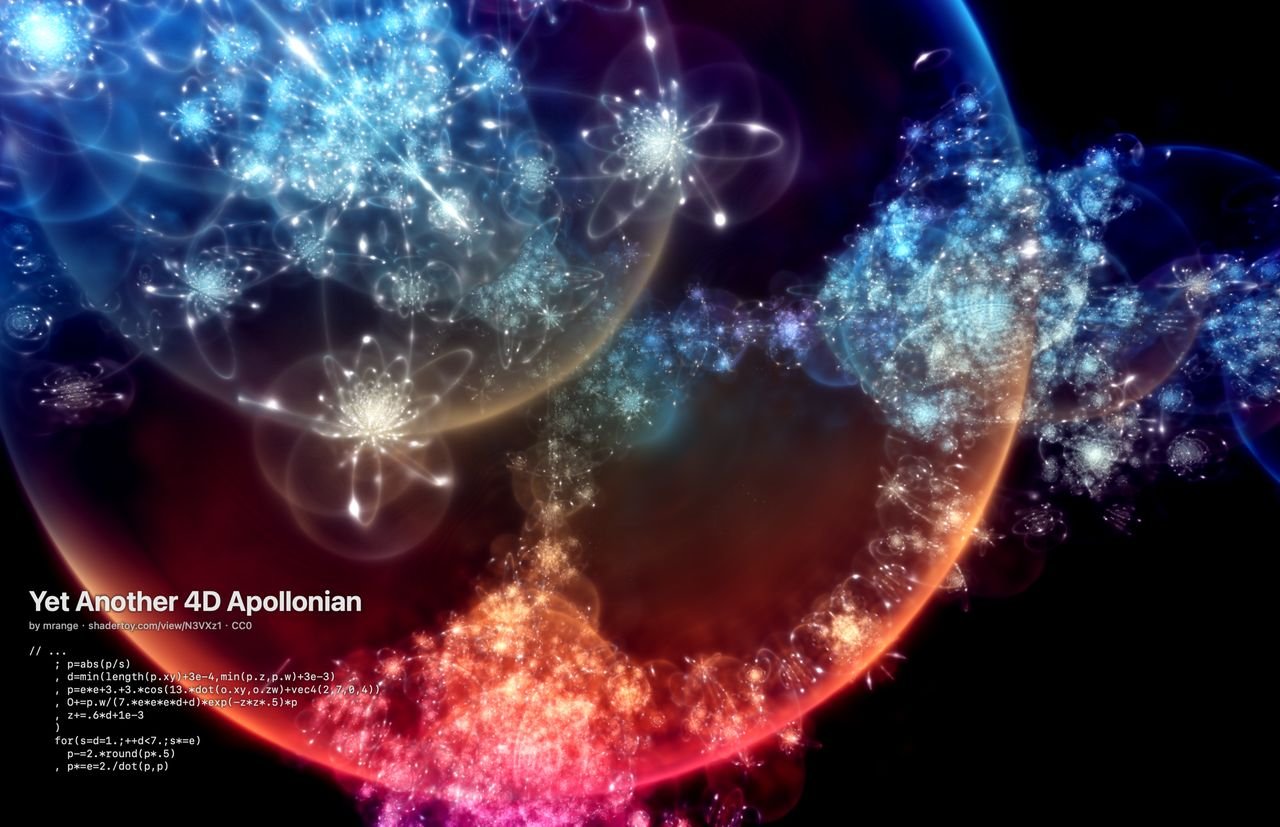
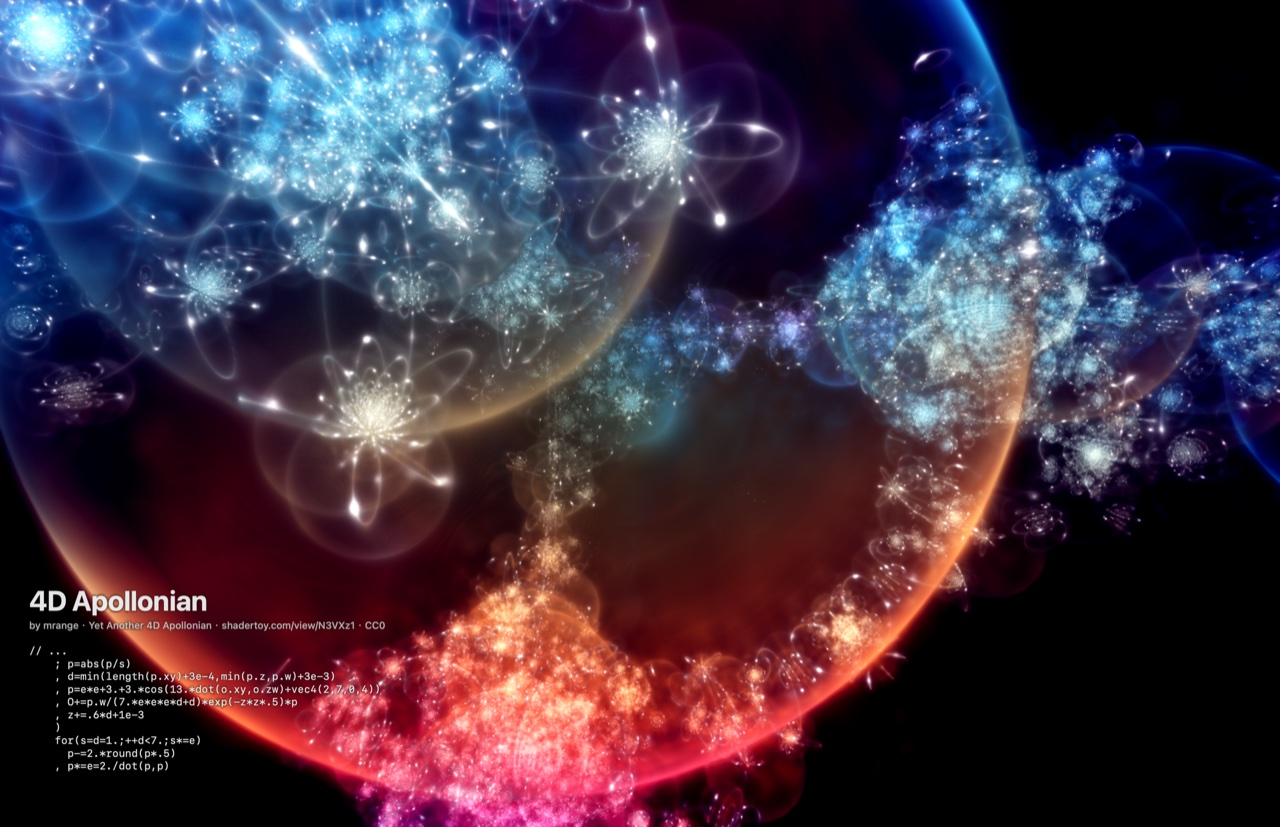
Shader Mix 1.2.2: Balatro Background, 4D Apollonian
Titles read like article titles: "Balatro Background Shaders" becomes
"Balatro Background", and "Yet Another 4D Apollonian" becomes "4D Apollonian"
with the original title in the author line. README headings and screenshots follow.

Changed region(s): [[0.0312, 0.6953, 0.2812, 0.9371]]

diff --git a/shader-mix/saver/tools/make_sources.py b/shader-mix/saver/tools/make_sources.py
@@ -16,8 +16,8 @@ OUT = os.path.join(os.path.dirname(__file__), '..', 'shaders')
 
 SHADERS = [
     # key, shadertoy id, title, author, license, enabled by default, textures. Titles are the original
-    # names without code-size suffixes, in title case; SamuelYAN's numbered titles get an English name
-    # and the original title goes in the author line.
+    # names without code-size suffixes, in title case; numbered or filler titles (SamuelYAN's,
+    # "Yet Another") get a plain name and the original title goes in the author line.
     ('flowingwires', 'DsBczR', 'Flowing Wires', 'kishimisu', 'CC BY-NC-SA 4.0', True, {}),
     ('starship', 'l3cfW4', 'Starship', 'Xor', 'CC BY-NC-SA 3.0', True, {'0': 'starship_iChannel0.jpg'}),
     ('fractalpyramid', 'tsXBzS', 'Fractal Pyramid', 'bradjamesgrant', 'CC BY-NC-SA 3.0', True, {}),
@@ -25,12 +25,12 @@ SHADERS = [
     ('singularity', '3csSWB', 'Singularity', 'Xor', 'CC BY-NC-SA 3.0', True, {}),
     ('ether', 'MsjSW3', 'Ether', 'nimitz', 'CC BY-NC-SA 3.0', True, {}),
     ('colorfulinfinity', 'WtjyzR', 'Path to the Colorful Infinity', 'benoitM', 'CC BY-NC-SA 3.0', True, {}),
-    ('balatroswirl', None, 'Balatro Background Shaders', 'xxidbr9 · original LocalThunk', 'personal use only', True, {}),
+    ('balatroswirl', None, 'Balatro Background', 'xxidbr9 · original LocalThunk', 'personal use only', True, {}),
     ('spiraliris', None, 'Liquid Iridescence', 'SamuelYAN · Shader_240422-4', 'CC BY-NC-SA', True, {}),
     ('membrane', None, 'Cell Membrane Light', 'SamuelYAN · untitled 2026_0203_3', 'CC BY-NC-SA', True, {}),
     ('motes', None, 'Sixteen Motes', 'SamuelYAN · 2026_0131', 'CC BY-NC-SA', True, {}),
     ('hiddenline', None, 'The Hidden Line', 'SamuelYAN · GENUARY 2026_0120', 'CC BY-NC-SA', True, {}),
-    ('apollonian4d', 'N3VXz1', 'Yet Another 4D Apollonian', 'mrange', 'CC0', True, {}),
+    ('apollonian4d', 'N3VXz1', '4D Apollonian', 'mrange · Yet Another 4D Apollonian', 'CC0', True, {}),
 ]
 
 # shaders that are not on Shadertoy (or whose Shadertoy page is a port)

diff --git a/shader-mix/saver/README.md b/shader-mix/saver/README.md
@@ -12,12 +12,12 @@ one's code, with title, author and license. Personal use only; every shader belo
 | `singularity` | [Singularity](https://www.shadertoy.com/view/3csSWB) | Xor | CC BY-NC-SA 3.0 (Shadertoy default) | on |
 | `ether` | [Ether](https://www.shadertoy.com/view/MsjSW3) | nimitz | CC BY-NC-SA 3.0 | on |
 | `colorfulinfinity` | [Path to the Colorful Infinity](https://www.shadertoy.com/view/WtjyzR) | benoitM | CC BY-NC-SA 3.0 | on |
-| `balatroswirl` | [Balatro Background Shaders](https://www.shadertoy.com/view/XXtBRr) | xxidbr9, original LocalThunk | personal use only | on |
+| `balatroswirl` | [Balatro Background](https://www.shadertoy.com/view/XXtBRr) | xxidbr9, original LocalThunk | personal use only | on |
 | `spiraliris` | [Liquid Iridescence](https://openprocessing.org/sketch/2247937) (original title: Shader_240422-4) | SamuelYAN | CC BY-NC-SA | on |
 | `membrane` | [Cell Membrane Light](https://openprocessing.org/sketch/2862539) (original title: untitled 2026_0203_3) | SamuelYAN | CC BY-NC-SA | on |
 | `motes` | [Sixteen Motes](https://openprocessing.org/sketch/2860882) (original title: 2026_0131) | SamuelYAN | CC BY-NC-SA | on |
 | `hiddenline` | [The Hidden Line](https://openprocessing.org/sketch/2851315) (original title: GENUARY 2026_0120) | SamuelYAN | CC BY-NC-SA | on |
-| `apollonian4d` | [Yet Another 4D Apollonian](https://www.shadertoy.com/view/N3VXz1) | mrange | CC0 | on |
+| `apollonian4d` | [4D Apollonian](https://www.shadertoy.com/view/N3VXz1) (original title: Yet Another 4D Apollonian) | mrange | CC0 | on |
 
 ## Files
 

diff --git a/README.md b/README.md
@@ -274,9 +274,9 @@ for(float i=0.; i<=1.; i+=1./NUM_LAYERS)
 }
 ```
 
-### Balatro Background Shaders
+### Balatro Background
 
-![Balatro Background Shaders](docs/screenshots/balatroswirl.jpg)
+![Balatro Background](docs/screenshots/balatroswirl.jpg)
 
 - 作者：LocalThunk（游戏原作），xxidbr9 移植
 - 原始链接：https://www.shadertoy.com/view/XXtBRr ・ https://github.com/xxidbr9/balatro-effect-recreate ・ https://www.playbalatro.com
@@ -398,10 +398,11 @@ for (int i = 0; i < NUM_LIGHTS; i++) {
 float vignette = smoothstep(1.25, 0.75, length(p));
 col -= vignette * 1.25;
 ```
-### Yet Another 4D Apollonian
+### 4D Apollonian
 
-![Yet Another 4D Apollonian](docs/screenshots/apollonian4d.jpg)
+![4D Apollonian](docs/screenshots/apollonian4d.jpg)
 
+- 原作名：Yet Another 4D Apollonian
 - 作者：mrange
 - 原始链接：https://www.shadertoy.com/view/N3VXz1
 - 许可：CC0

diff --git a/README.en.md b/README.en.md
@@ -277,9 +277,9 @@ for(float i=0.; i<=1.; i+=1./NUM_LAYERS)
 }
 ```
 
-### Balatro Background Shaders
+### Balatro Background
 
-![Balatro Background Shaders](docs/screenshots/balatroswirl.jpg)
+![Balatro Background](docs/screenshots/balatroswirl.jpg)
 
 - Author: LocalThunk (the game), ported by xxidbr9
 - Original: https://www.shadertoy.com/view/XXtBRr · https://github.com/xxidbr9/balatro-effect-recreate · https://www.playbalatro.com
@@ -401,10 +401,11 @@ for (int i = 0; i < NUM_LIGHTS; i++) {
 float vignette = smoothstep(1.25, 0.75, length(p));
 col -= vignette * 1.25;
 ```
-### Yet Another 4D Apollonian
+### 4D Apollonian
 
-![Yet Another 4D Apollonian](docs/screenshots/apollonian4d.jpg)
+![4D Apollonian](docs/screenshots/apollonian4d.jpg)
 
+- Original title: Yet Another 4D Apollonian
 - Author: mrange
 - Original: https://www.shadertoy.com/view/N3VXz1
 - Licence: CC0
